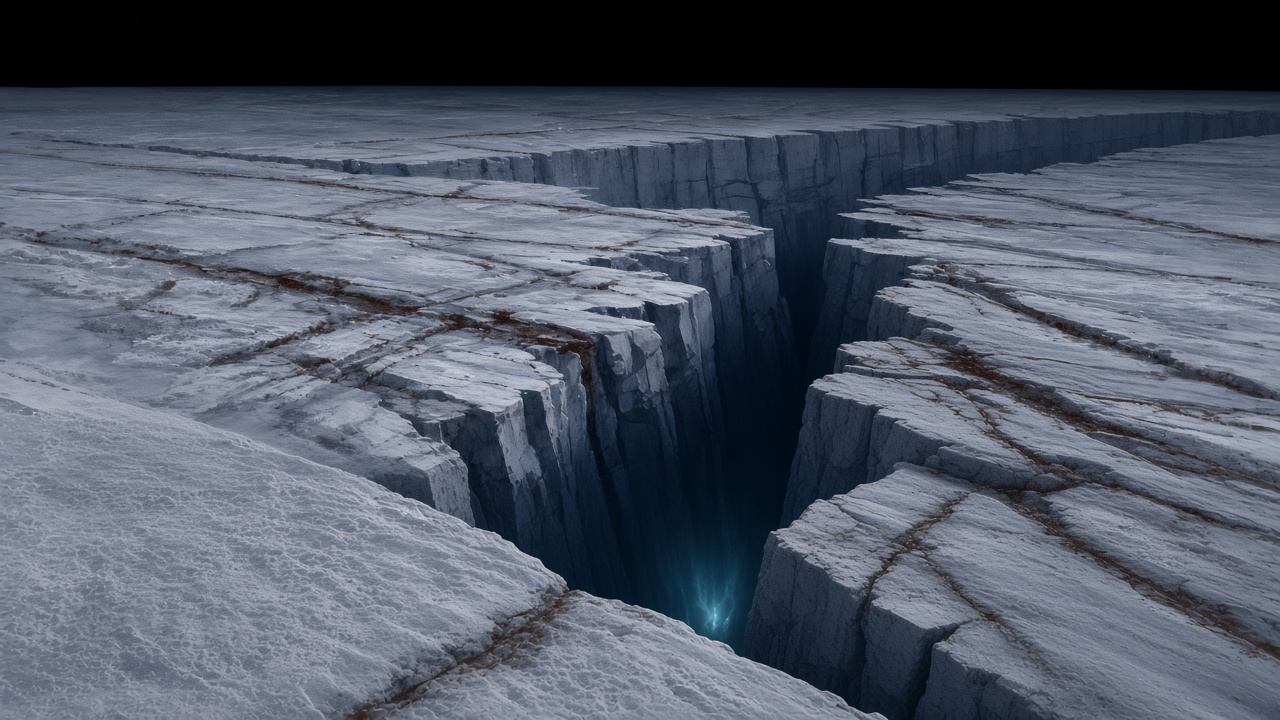
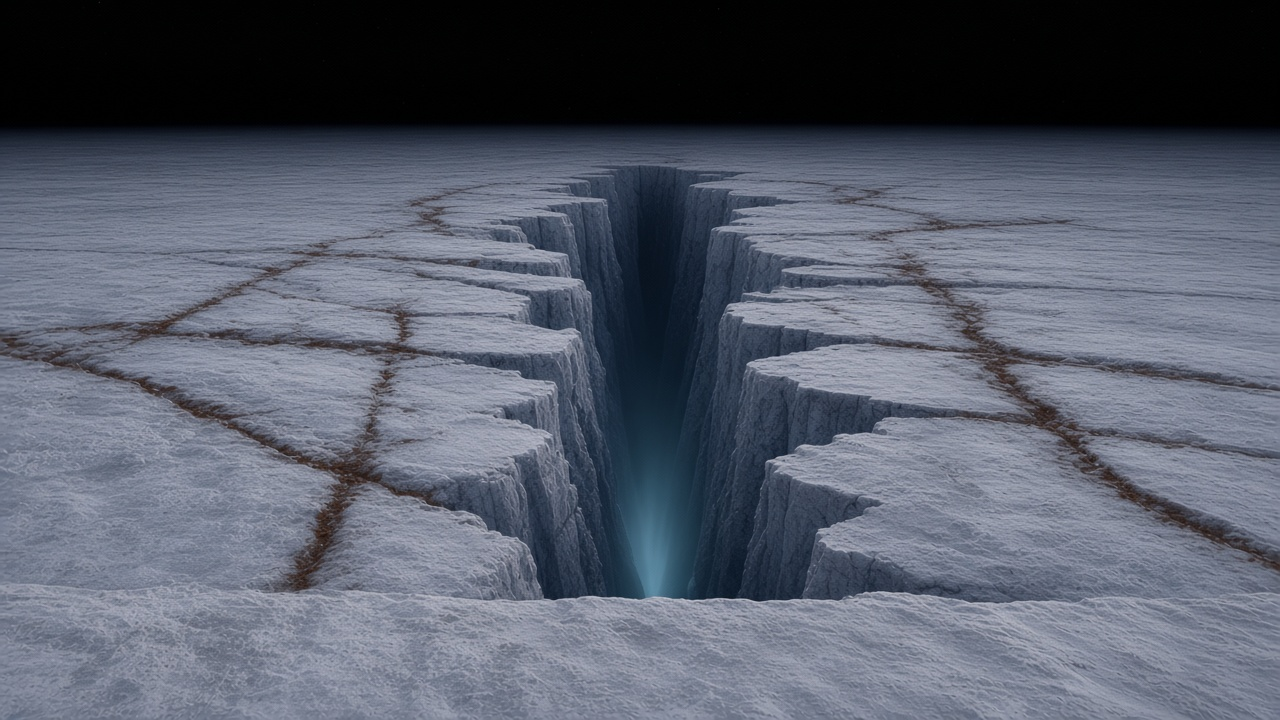
Fissure Vantage back: repaint with glow mid-frame, measured horizon

diff --git a/surface/src/main.js b/surface/src/main.js
@@ -679,7 +679,7 @@ registerLocation({
       { url: './assets/fissure-vantage-vista.jpg', yawDeg: 0, arcDeg: 116, horizon: 0.125, order: 12, sideFade: 0.22, keySky: true, keyLo: 0.030, keyHi: 0.050, keyBand: [0.85, 0.89] },
       { ...side, url: './assets/vistas/fissure-left.jpg',  yawDeg: -75, sideFade: [0.16, 0.04] },
       { ...side, url: './assets/vistas/fissure-right.jpg', yawDeg: 75,  sideFade: [0.04, 0.16] },
-      { ...side, url: './assets/vistas/fissure-back.jpg',  yawDeg: 180, arcDeg: 140, order: 10, sideFade: 0.04 }
+      { ...side, url: './assets/vistas/fissure-back.jpg',  yawDeg: 180, arcDeg: 140, order: 10, sideFade: 0.04, horizon: 0.175, keyBand: [0.79, 0.82] }   // horizon row measured on this picture
     ] });
     groundTint(group, this.pos, 0x7f8698, 160);   // blend procedural ice toward the still's foreground tone
     // no procedural ridges: the four panels cover 360 deg
